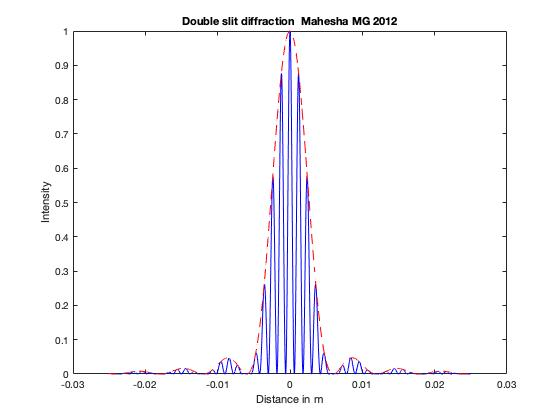
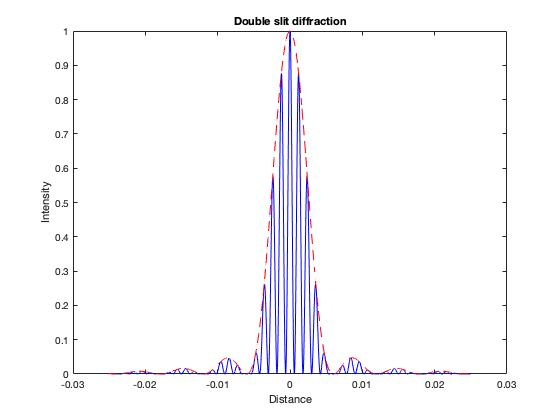
Add files via upload

Changed region(s): [[0.3036, 0.031, 0.7286, 0.0619], [0.4554, 0.9286, 0.5768, 0.9595]]

diff --git a/Interference_DIffraction/Interference_Diffraction.m b/Interference_DIffraction/Interference_Diffraction.m
@@ -19,8 +19,8 @@ while(1)
     x2=(sin(alpha)./alpha).^2;  % Diffraction term
     x=x1.*x2;                   % Combined effect
     plot(y,x,'b',y,x2,'--r');
-    title('Double slit diffraction  Mahesha MG 2012');
-    xlabel('Distance in m');
+    title('Double slit diffraction');
+    xlabel('Distance');
     ylabel('Intensity');
     hold all;
     ch= input('Press 1 to continue and 0 to exit: ');
